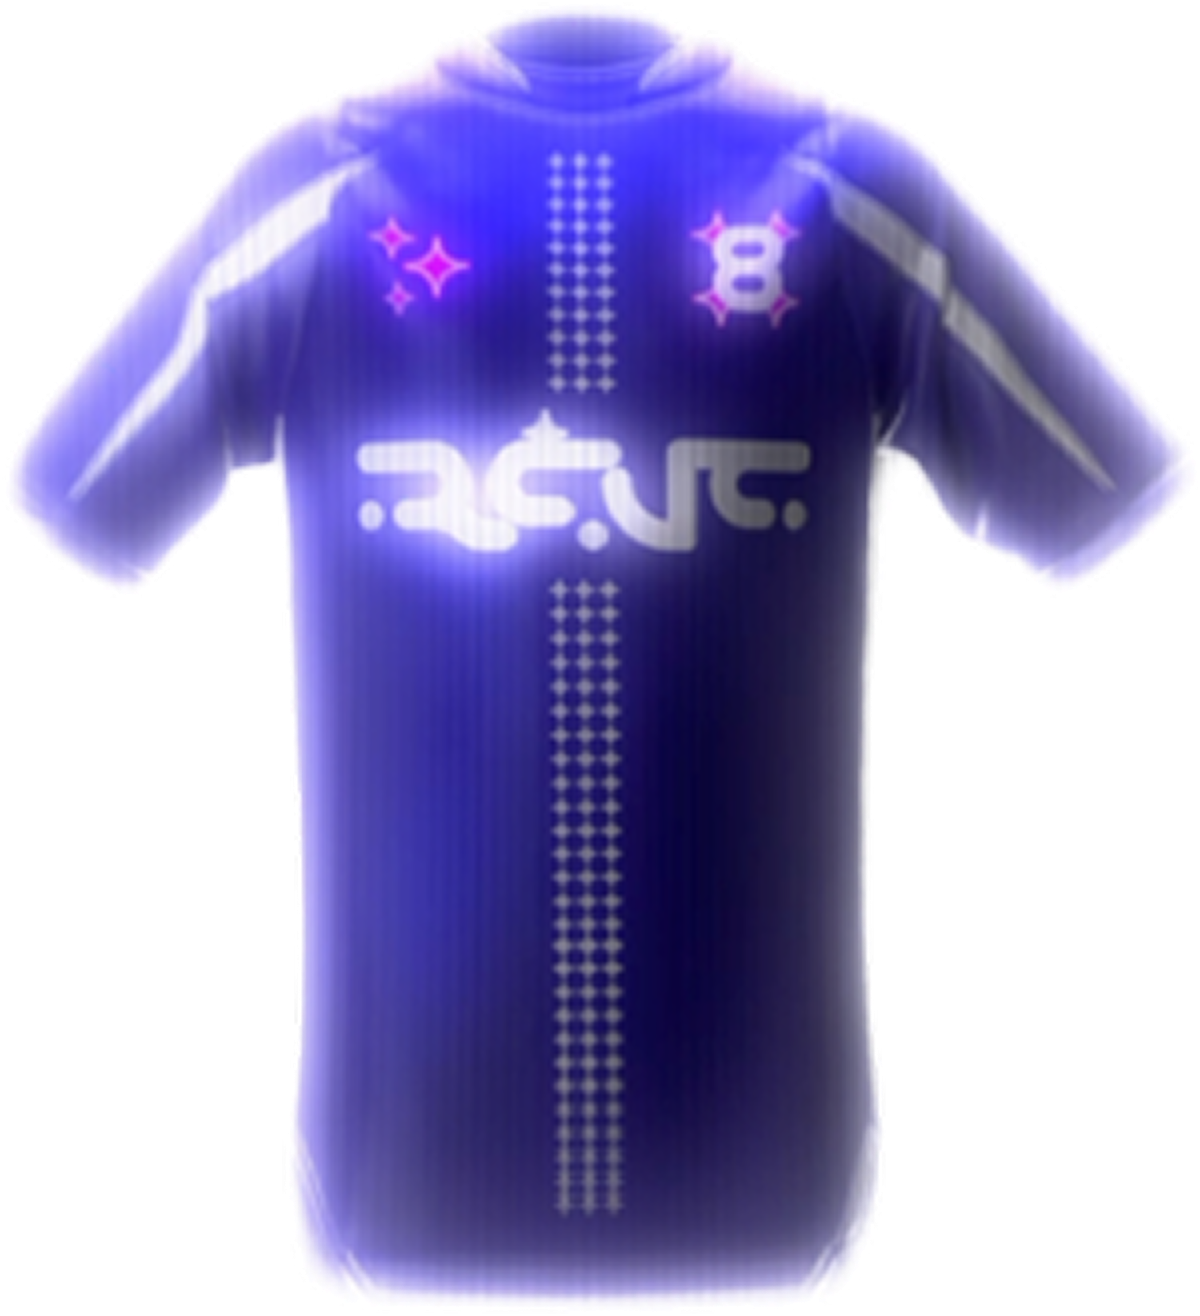
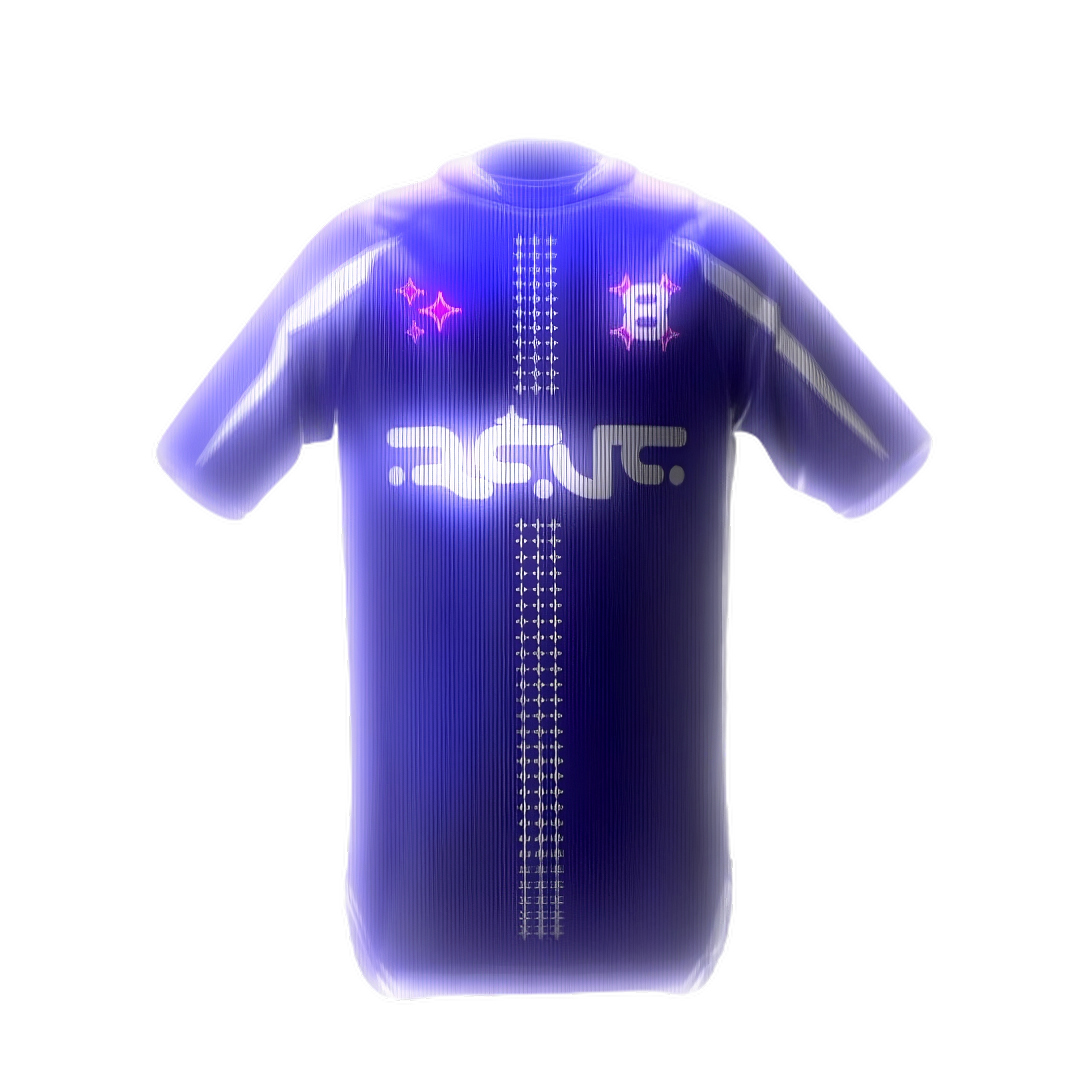
new images

diff --git a/ARCHITECTURE.md b/ARCHITECTURE.md
@@ -1,0 +1,257 @@
+# Rêves — Architecture du site
+
+Boutique e-commerce de **Rêves** (organisation de concerts à Paris et au Japon).
+Site **statique multi-pages** en HTML / CSS / JavaScript **vanilla**, sans build, sans dépendance, sans framework.
+
+---
+
+## 1. Philosophie technique
+
+- **Zéro build** : on ouvre les fichiers directement, ou on sert le dossier avec n'importe quel serveur statique.
+- **Zéro dépendance** runtime (pas de npm en prod, pas de bundler).
+- **Vanilla JS** dans une IIFE (`app.js`), partagé entre toutes les pages.
+- **Panier persistant** côté client via `localStorage` (pas de backend).
+- **Mobile-first dans l'esprit**, mais écrit en *desktop-first* (styles de base = desktop, surcharges via `@media (max-width: …)`).
+
+### Lancer le site
+
+```bash
+cd site
+python3 -m http.server 8753
+# puis http://localhost:8753/index.html
+```
+
+> Tout serveur statique fait l'affaire (`npx serve`, Live Server, etc.).
+> Les embeds Spotify nécessitent une connexion réseau.
+
+---
+
+## 2. Arborescence
+
+```
+site/
+├── index.html          # Homepage (grille produits)
+├── product.html        # Page produit (paramétrée par ?id=…)
+├── cart.html           # Panier
+├── css/
+│   └── style.css       # TOUT le style + responsive + animations
+├── js/
+│   ├── data.js         # Données produits (catalogue)
+│   └── app.js          # Logique partagée (header, menu, i18n, panier, pages)
+├── assets/             # Images (logo, t-shirts, grue, typographies…)
+└── ARCHITECTURE.md     # Ce fichier
+```
+
+Les 3 pages HTML sont volontairement **minimales** : elles ne contiennent que des
+conteneurs vides (`<div id="…">`) ; tout le contenu est injecté par `app.js`.
+
+---
+
+## 3. Design system
+
+Défini dans `:root` (`css/style.css`) et d'après les maquettes `/maquettes`.
+
+| Token | Valeur | Usage |
+|-------|--------|-------|
+| `--blue` | `#1f00ff` | Fond du site (échantillonné sur les maquettes) |
+| `--white` | `#ffffff` | Texte, bordures |
+| `--border` | `2px solid #fff` | Bordures cartes / panneaux / boutons |
+| `--maxw` | `1320px` | Largeur max du contenu centré |
+| `--header-h` | `128px` | Hauteur du header (réduite en responsive) |
+| `--sans` | Helvetica Neue / Helvetica / Arial | Police principale |
+
+Autres règles transverses :
+- `letter-spacing: -0.09em` (-9 %) sur **tout** le texte Helvetica (`body`).
+- Le **logo** est `assets/logo.png` (wordmark bleu) repassé en **blanc** via `filter: brightness(0) invert(1)`.
+- **Motifs récurrents** : double trait blanc en **diagonale** (`-40°`) et **grue origami** colorée (`papercrane.png`).
+
+---
+
+## 4. Modèle de données (`js/data.js`)
+
+Catalogue exposé en global :
+
+```js
+window.PRODUCTS = [ { … }, … ];   // 5 produits
+window.HOME_CARDS = ["bleached", "lbady-white", "lbady-blue", "other"];
+window.getProduct = (id) => …;    // helper
+```
+
+### Schéma d'un produit
+
+| Champ | Type | Description |
+|-------|------|-------------|
+| `id` | string | Identifiant (clé d'URL `product.html?id=…`) |
+| `label` | string | Nom court (cartes d'accueil) |
+| `name` | string | Nom complet (titre de la page produit ; `\n` = saut de ligne) |
+| `typo` | string \| null | Image typographique manuscrite du nom |
+| `price` | number | Prix en € |
+| `available` | bool | `false` = SOLD OUT (bouton désactivé, pas de tailles) |
+| `spotify` | string? | ID d'album Spotify (embed) |
+| `card` | string | Image sur la carte d'accueil |
+| `images` | string[] | Galerie (miniatures + image principale) |
+| `info` | string | Texte descriptif (panneau INFORMATIONS) |
+
+### Les 5 produits
+
+| id | Nom | Prix | Stock |
+|----|-----|------|-------|
+| `bleached` | Bleached T-shirt | 30 € | dispo |
+| `lbady-white` | Le bleu a des yeux — T-shirt blanc | 30 € | dispo |
+| `lbady-blue` | Le bleu a des yeux — T-shirt bleu | 30 € | dispo |
+| `jersey` | Jersey Rêves 8 | 40 € | **SOLD OUT** |
+| `cd` | CD — Le bleu a des yeux | 15 € | **SOLD OUT** |
+
+`HOME_CARDS` affiche 3 t-shirts + une carte **« Autres produits »** (`id=other`)
+qui regroupe le jersey et le CD (image composite `other-products.png`).
+
+---
+
+## 5. Pages
+
+Chaque page = `<body data-page="…">` + conteneurs vides. `app.js` lit `data-page`
+au `DOMContentLoaded` et appelle l'initialiseur correspondant.
+
+### `index.html` — Homepage (`data-page="home"`)
+- Grille de cartes (`#grid`), centrée verticalement, 90 % de large, cartes à 24 %.
+- Chaque carte : bandeau **prix** (fond blanc) + icône **déplacer** en haut, image au centre, **nom** (fond bleu) en bas.
+- Carte « Autres produits » : prix = `Sold out`, sans badge.
+- **Drag & drop** : maintenir le clic sur l'icône déplacer fait glisser la carte (cf. §7).
+
+### `product.html` — Page produit (`data-page="product"`)
+Lue via `?id=…`. Structure :
+- `.product__head` (**fixe**, aligné sous le logo) : titre + prix.
+- `.product__stage` : image principale.
+- `.product__controls` : `INFORMATIONS` (panneau dépliable) | miniatures | tailles + boutons.
+- `.product__spotify` : lecteur Spotify (**fixed** à droite sur grand écran, sinon dans le flux).
+- Boutons : **Ajouter au panier** + **Voir le panier** (ce dernier apparaît au 1ᵉʳ ajout et rétrécit l'autre).
+- `?id=other` → mode galerie jersey/CD (sold out, sélection par miniatures).
+
+### `cart.html` — Panier (`data-page="cart"`)
+- Titre `CART`, lignes produit (miniature, nom, prix, quantité `− n +`, suppression `×`), total, **CHECKOUT** (simulé), **Continue shopping**.
+- Rendu depuis `localStorage`, re-rendu au changement de langue.
+
+### Menu overlay (toutes les pages)
+Injecté par `app.js`. Contient logo, liens **Accueil / Contact / Panier (n)**,
+sélecteur de langue **FR / EN / JP**, et la grue. Animations d'ouverture/fermeture (cf. §8).
+
+---
+
+## 6. Logique partagée (`js/app.js`)
+
+Tout est encapsulé dans une **IIFE**. Sections principales :
+
+| Bloc | Rôle |
+|------|------|
+| `I18N` + `getLang`/`setLang`/`t` | Dictionnaire FR/EN/JP, langue dans `localStorage` (`reves_lang`) |
+| Panier | `loadCart`/`saveCart`/`addToCart`/`setQty`/`removeItem`/`cartCount`/`cartTotal` (clé `reves_cart`) |
+| `buildHeader` | Injecte logo + burger dans `#site-header` |
+| `buildMenu` | Injecte l'overlay menu, câble langue + ouverture/fermeture |
+| `applyLang` / `updateBadge` / `updateCartNav` | Met à jour textes i18n, compteur, lien « Panier (n) » |
+| `makeCardDraggable` | Drag des cartes d'accueil |
+| `initHome` / `initProduct` / `initOther` / `initCart` | Rendu spécifique par page |
+| `spotifyEmbed(albumId)` | Génère l'iframe Spotify (compact, hauteur 152) |
+| `window.toggleInfo` | Ouvre/ferme le panneau INFORMATIONS |
+
+**Boot** (bas de fichier) :
+
+```js
+document.addEventListener("DOMContentLoaded", () => {
+  const page = document.body.getAttribute("data-page");
+  buildHeader({ back: page === "product" });
+  buildMenu();
+  if (page === "home")    initHome();
+  else if (page === "product") initProduct();
+  else if (page === "cart")    initCart();
+  applyLang();
+  updateBadge();
+});
+```
+
+### État client (localStorage)
+- `reves_cart` : `[{ id, size, qty }]`
+- `reves_lang` : `"fr" | "en" | "jp"`
+
+---
+
+## 7. Drag des cartes (homepage)
+
+`makeCardDraggable(handle)` sur chaque `.card__move` :
+- `pointerdown` → `setPointerCapture`, désactive la transition, `z-index` élevé.
+- `pointermove` → `transform: translate(dx, dy)` cumulatif.
+- `pointerup` → fige l'offset ; si déplacement réel, bloque la navigation du lien (le clic suivant est `preventDefault`).
+- Souris **et** tactile (Pointer Events). Un simple clic sur la poignée ne navigue pas.
+
+> Le `transform` inline du drag n'entre pas en conflit avec l'animation d'apparition
+> des cartes car celle-ci utilise `animation-fill-mode: backwards` (ne fige aucun transform après coup).
+
+---
+
+## 8. Animations (`css/style.css`)
+
+| Élément | Effet |
+|---------|-------|
+| Diagonales | Tracé `scaleX 0→1` (`@keyframes diag-before/after`) à l'arrivée |
+| Header / cartes / image / panier | `fade-up` / `fade-in` en cascade (délais échelonnés) |
+| Grue (coin + menu) | Flottement continu `@keyframes crane-float` |
+| **Menu — ouverture** | Wipe **droite → gauche** via `clip-path: inset(…)` (`@keyframes menu-open`) |
+| **Menu — fermeture** | Glisse **vers la droite** via `translateX` (`@keyframes menu-close`, classe `.closing`) |
+| Grue du menu | Arrive **depuis la gauche** (`translateX(-130%) → 0`) à l'ouverture |
+
+Détails menu :
+- Pas de `transition` sur `.menu` : ouverture et fermeture sont **deux keyframes distinctes** (évite le double-rejeu).
+- L'état fermé de base (`translateX(100%)`) = fin du slide → aucun saut.
+- `overflow: hidden` sur `.menu` empêche ses enfants (la grue) de réapparaître hors écran.
+- `closeMenu()` pose la classe `.closing`, nettoie sur `animationend` (+ garde-fou `setTimeout`).
+
+**Accessibilité** : tout est désactivé sous `@media (prefers-reduced-motion: reduce)`.
+
+---
+
+## 9. Responsive
+
+Styles de base = desktop. Quatre paliers de surcharge :
+
+| Breakpoint | Cible | Principales adaptations |
+|------------|-------|-------------------------|
+| `≤ 1400px` | desktop étroit | L'embed Spotify repasse **dans le flux** (plus de flottant à droite faute de marge) |
+| `≤ 1024px` | tablette | Grille 2 colonnes ; homepage non centrée verticalement ; contrôles produit **empilés** ; titre+prix dans le flux ; boutons empilés |
+| `≤ 720px` | mobile | Header centré (logo réduit), burger/flèche, diagonale + grue masquées, grille 1 colonne, panier reflowé, menu ajusté |
+| `≤ 460px` | petit téléphone | Logo/paddings réduits, tailles de police adaptées, menu compacté |
+
+`--header-h` et la taille du logo décroissent par palier (128/104 → 104/76 → 92/60).
+
+---
+
+## 10. i18n (FR / EN / JP)
+
+- Dictionnaire `I18N` dans `app.js`, langue par défaut **FR**.
+- Les éléments statiques portent `data-i18n="clé"` ; `applyLang()` remplace leur `textContent`.
+- Cas spéciaux gérés en JS : lien **« Panier (n) »** (`updateCartNav`), libellés dynamiques des pages.
+- Les **descriptions produits** restent en français (non traduites).
+
+---
+
+## 11. Assets (`site/assets/`)
+
+| Fichier | Usage |
+|---------|-------|
+| `logo.png` | Wordmark « Rêves » (recoloré en blanc via CSS) |
+| `papercrane.png` | Grue origami (coin de page + menu) |
+| `bleached-front/back/both.png` | T-shirt Bleached |
+| `lbady-white-front/back.png`, `lbady-blue-front/back.png` | T-shirts Le bleu a des yeux |
+| `jersey.png`, `lbady-cd.png` | Produits sold out |
+| `other-products.png` | Composite jersey + CD (carte « Autres produits ») |
+| `bleached-typo.png`, `lbady-typo.png` | Typographies manuscrites des noms |
+
+> Les images produits ont été **optimisées** (max 1200px) pour le web.
+
+---
+
+## 12. Conventions & limites
+
+- **Cache-busting** : les `<link>`/`<script>` portent `?v=N` ; incrémenter `N` à chaque modif de `css`/`js` force le rechargement (cf. les `sed` de mise à jour).
+- **Paiement** : le bouton CHECKOUT est **simulé** (aucun back-end / aucune passerelle).
+- **Contact** : le lien du menu pointe vers un `mailto:` placeholder.
+- **Typographies manuscrites** : ce sont des images figées ; changer le texte du nom n'affecte pas l'image (`*-typo.png`).
+- **Pas de tests automatisés** versionnés (la validation s'est faite via `jsdom` en cours de dev).